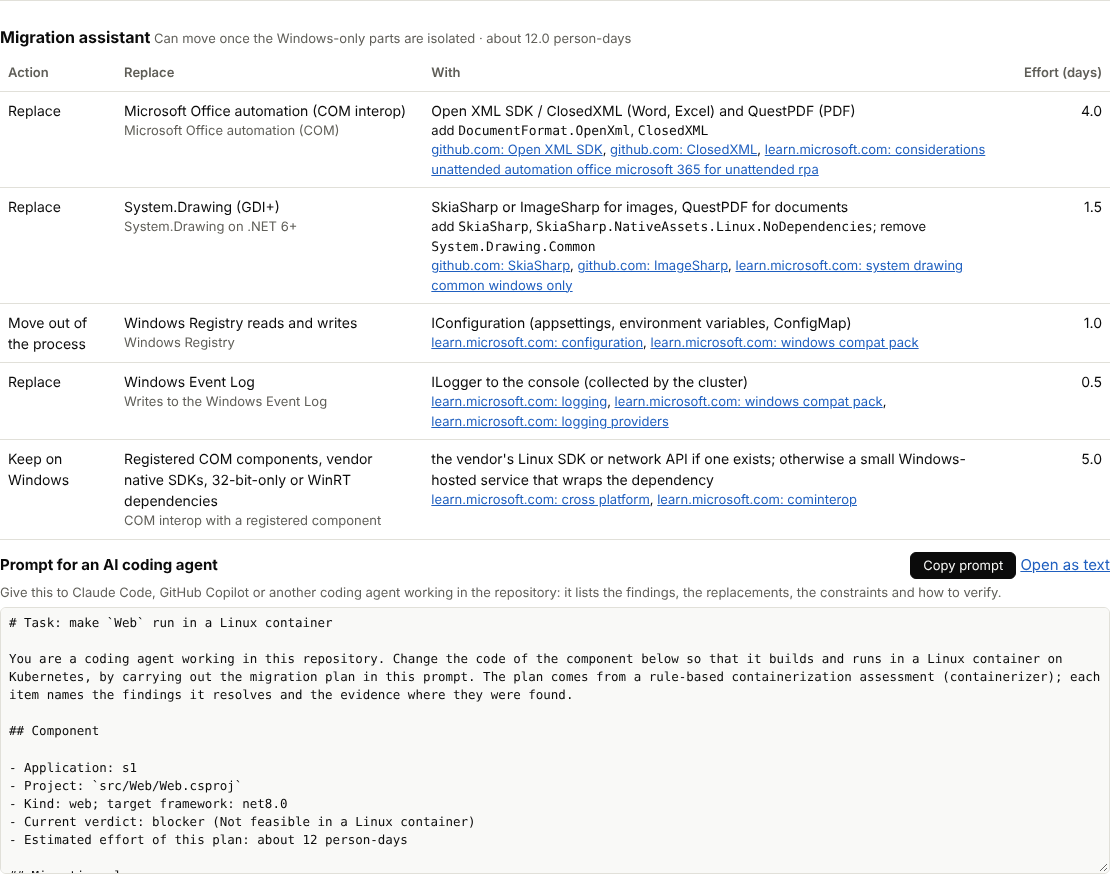
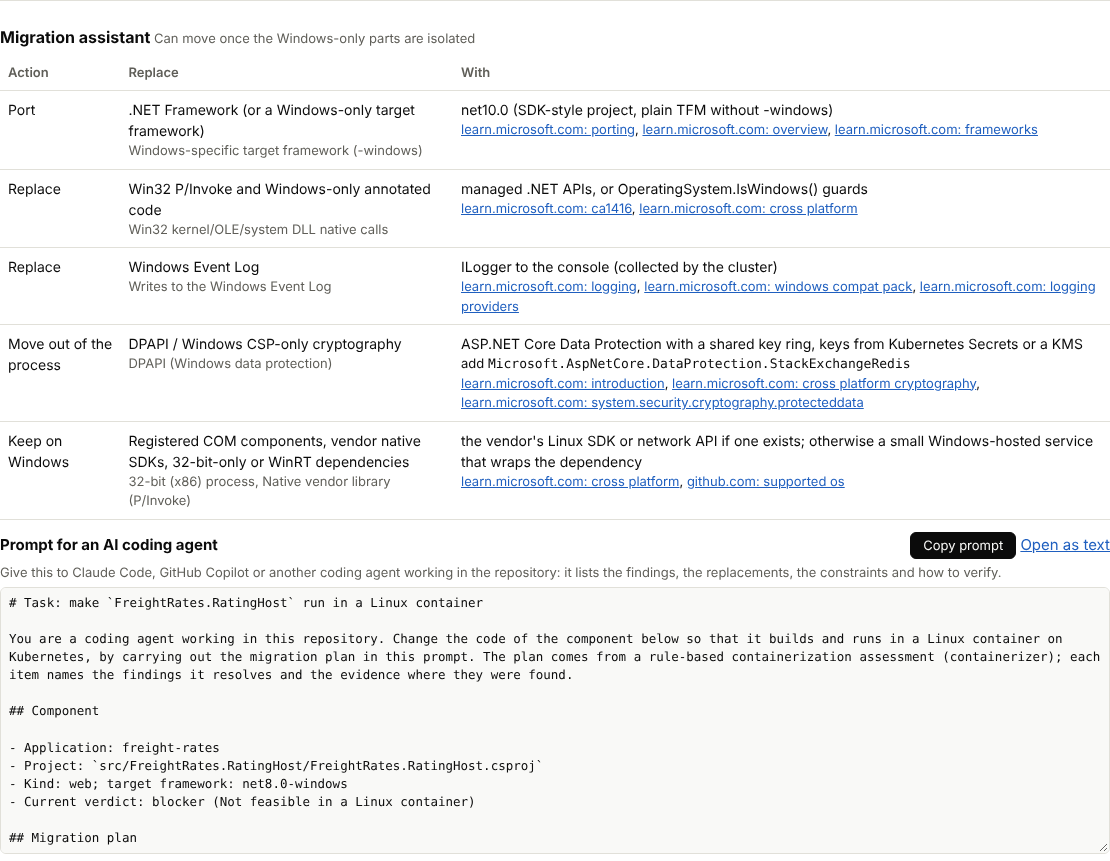
Docs screenshots without estimates; show the migration outcome in words [skip ci]
The sandbox OUTCOME_TEXT shadowed the migration assistant's, so the plan heading showed the raw
key ("partial"). Screenshots retaken from the challenge apps on a local SQL Server.

Claude-Session: https://claude.ai/code/session_01HpAsQeD2pt9WPov3URJuPB

diff --git a/containerizer/webui.py b/containerizer/webui.py
@@ -430,7 +430,7 @@ def render_application(app: dict, nav: str = "") -> str:
 <footer>{legend()}</footer>""", script=any(m.get("AgentPrompt") for m in migs.values()))
 
 
-OUTCOME_TEXT = {"linux-container": "Can move to a Linux container",
+PLAN_OUTCOME_TEXT = {"linux-container": "Can move to a Linux container",
                 "partial": "Can move once the Windows-only parts are isolated",
                 "stays-on-windows": "Stays on Windows"}
 KIND_TEXT = {"replace": "Replace", "port": "Port", "externalize": "Move out of the process", "isolate": "Keep on Windows"}
@@ -477,7 +477,7 @@ def _migration(app_id, m: dict | None) -> str:
                                                  for u in refs) + "</div>" if refs else "")
             + "</td></tr>")
     out = [f"<section class='migration' id='m{cid}'><h3>Migration assistant "
-           f"<span class='muted small'>{e(OUTCOME_TEXT.get(m['Outcome'], m['Outcome']))}</span></h3>"]
+           f"<span class='muted small'>{e(PLAN_OUTCOME_TEXT.get(m['Outcome'], m['Outcome']))}</span></h3>"]
     if rows:
         out.append("<table><thead><tr><th>Action</th><th>Replace</th><th>With</th>"
                    "</tr></thead><tbody>" + "".join(rows) + "</tbody></table>")

diff --git a/tests/test_migration_assistant.py b/tests/test_migration_assistant.py
@@ -153,6 +153,7 @@ def test_application_page_shows_migration_and_prompt(tmp_path):
     assert "Migration assistant" in html and "Prompt for an AI coding agent" in html
     assert "SkiaSharp" in html and "data-copy='pt1'" in html
     assert "Effort" not in html and "person-day" not in html
+    assert "Can move to a Linux container" in html        # the plan outcome in words, not its key
     assert "/app/7/component/1/agent-prompt.md" in html
     assert "<script>alert" not in html and "&lt;/textarea&gt;" in html       # prompt text is escaped
     assert html.count("<script") == 1 and "<script src='/static/app.js'>" in html
